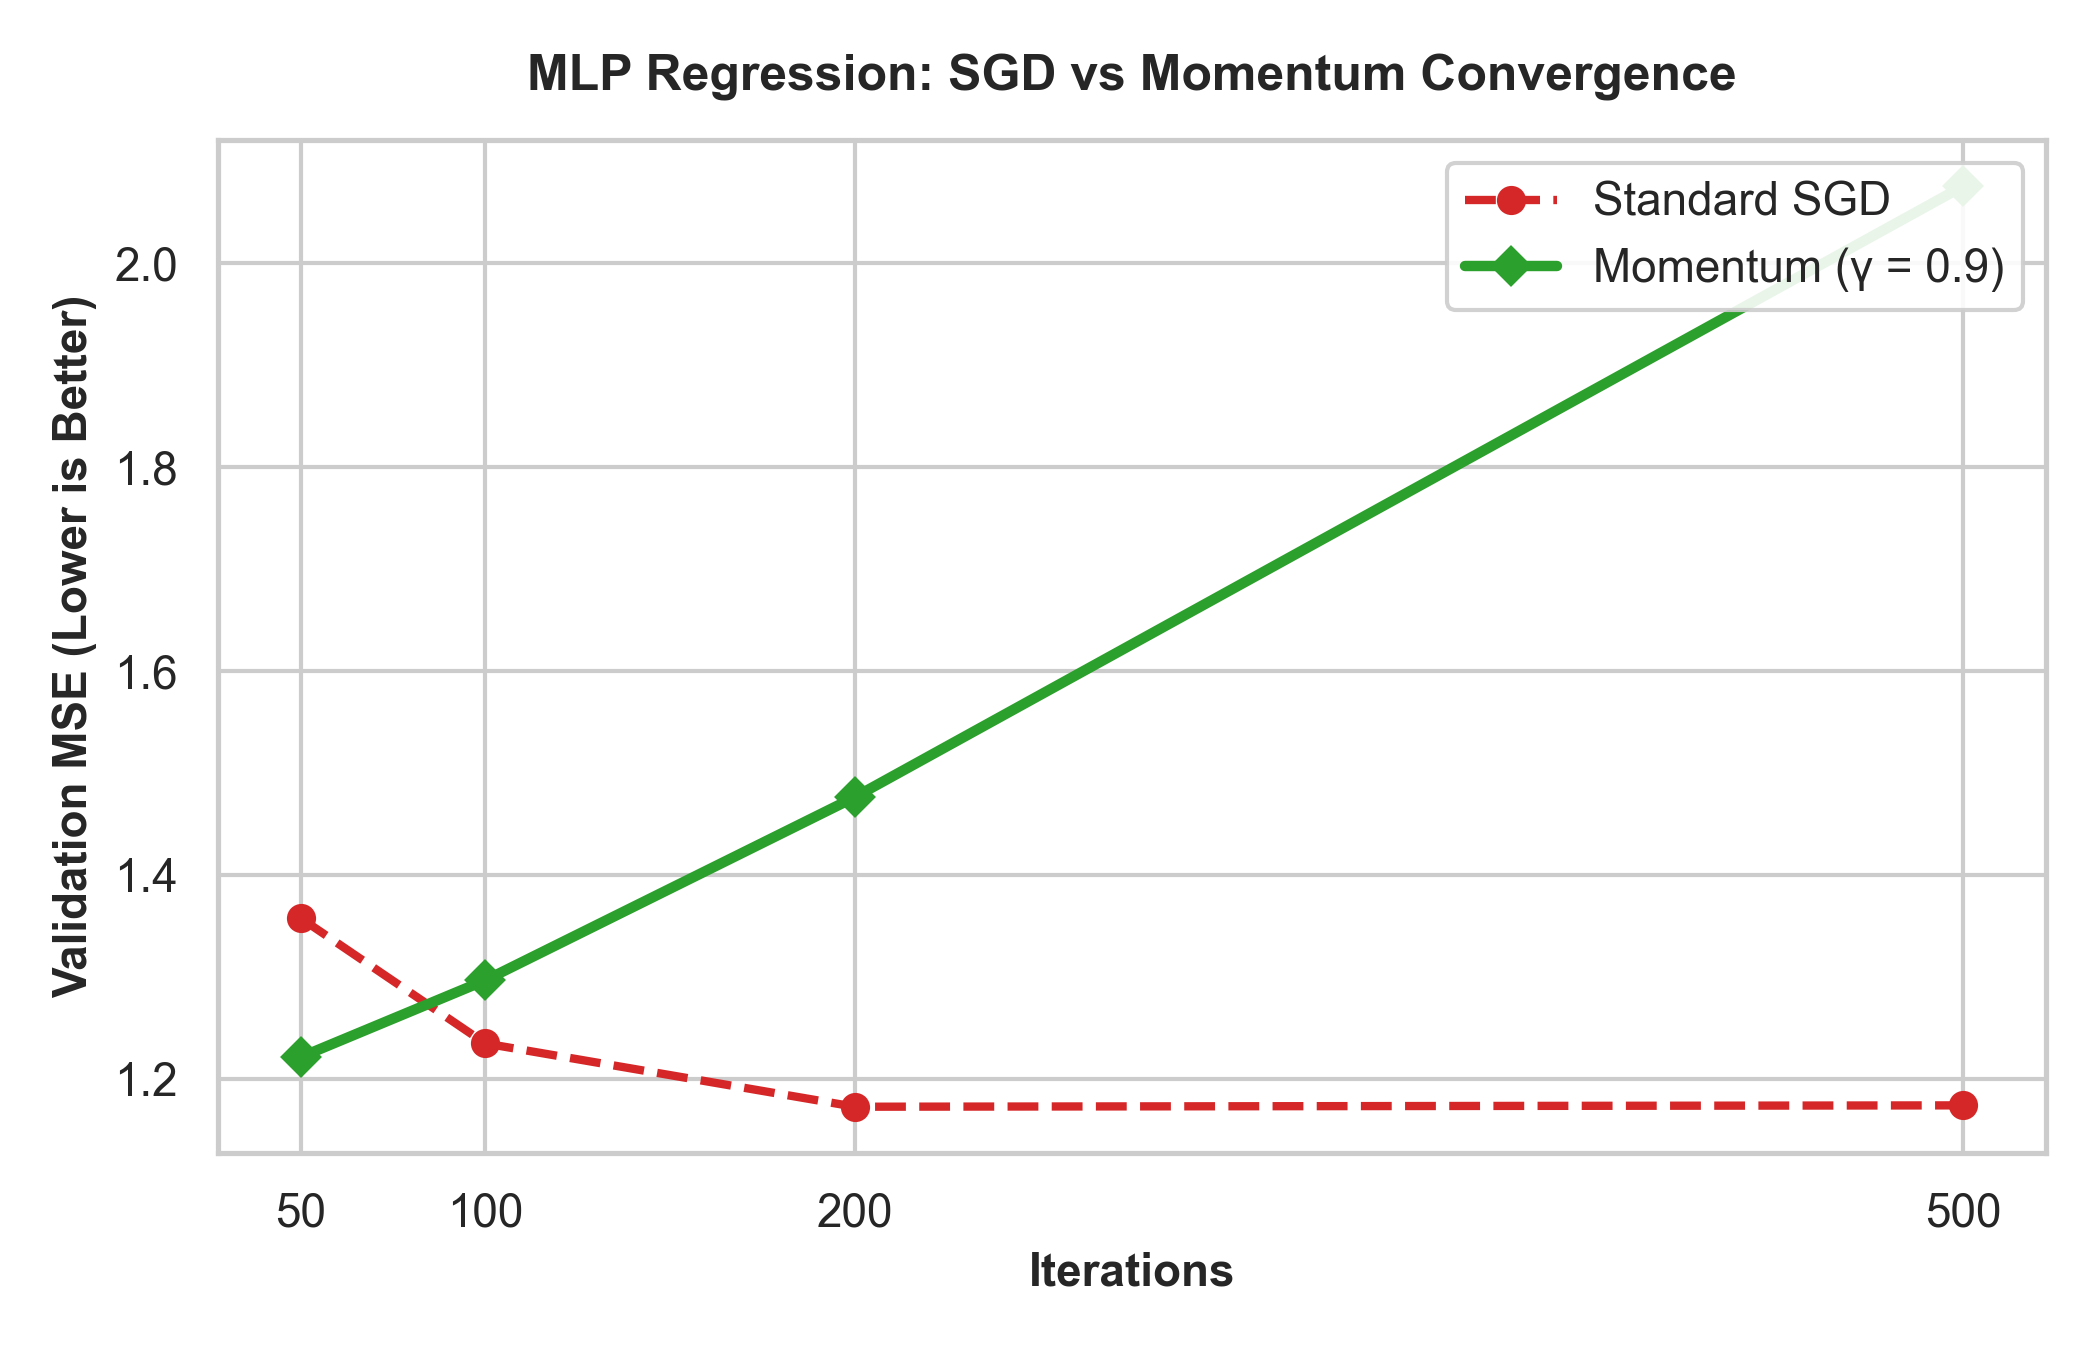
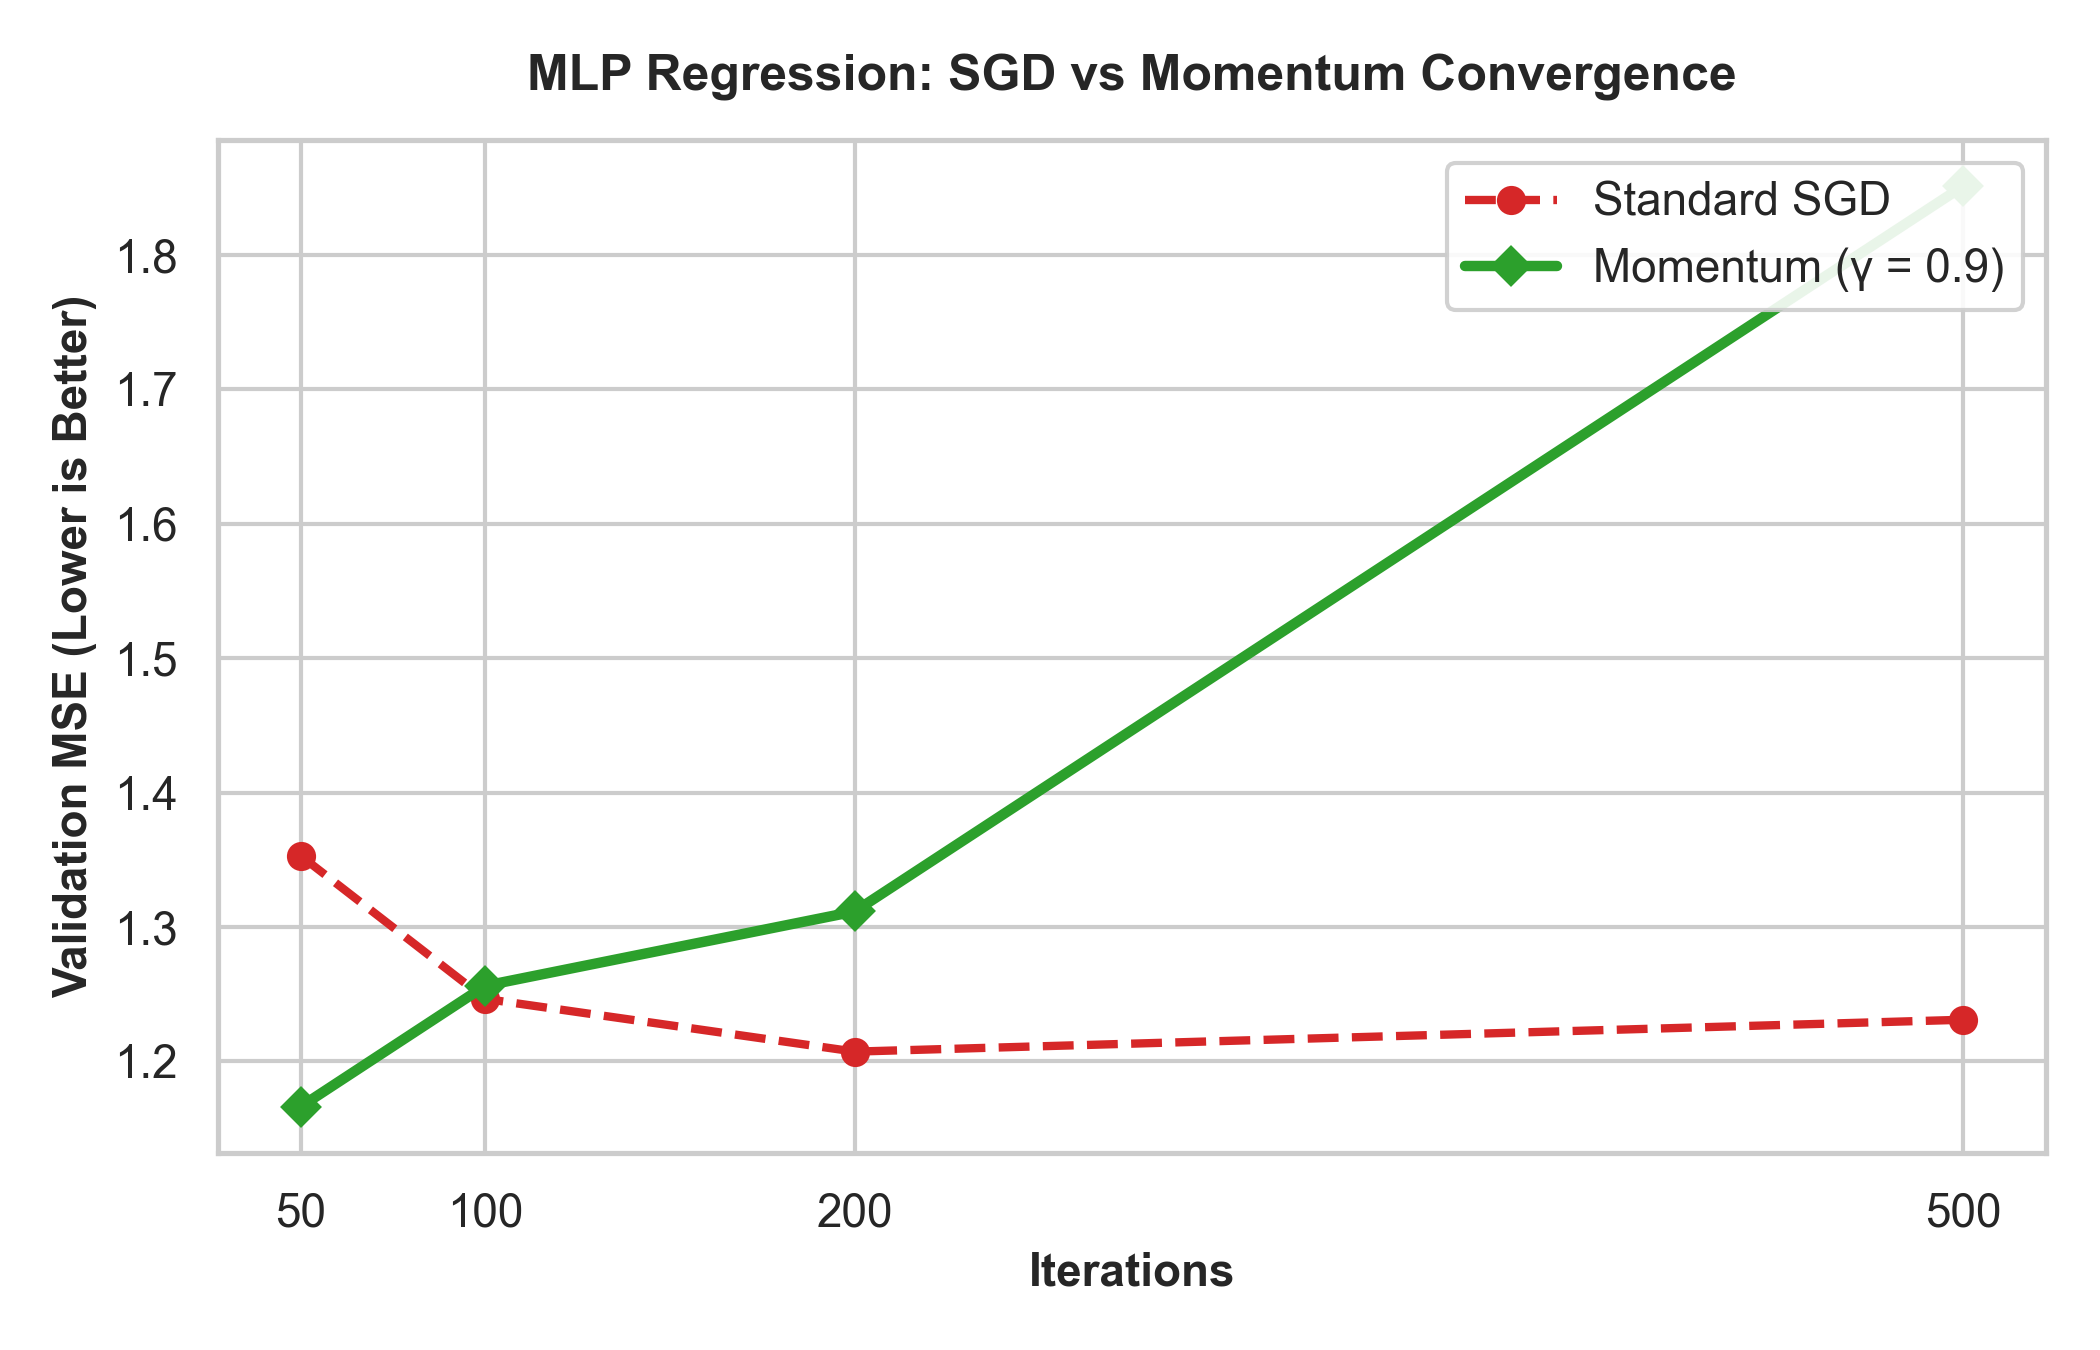
PROJECT FINAL

diff --git a/report.tex b/report.tex
@@ -1,28 +1,58 @@
-\documentclass[11pt, twocolumn]{article}
-\usepackage[margin=0.7in]{geometry}
+\documentclass[10pt, twocolumn]{article}
+\usepackage[margin=0.48in]{geometry}
 \usepackage{graphicx}
 \usepackage{booktabs}
 \usepackage{float}
 \usepackage{amsmath}
 \usepackage[font=small,labelfont=bf]{caption}
 
-\title{\vspace{-12mm}\Large\textbf{Milestone 2 Report}}
+\title{\vspace{-15mm}\Large\textbf{Milestone 2 Report}}
 \author{SCIPER 392412 $\cdot$ 373176 $\cdot$ 398388}
 \date{}
 
 \begin{document}
+
+\setlength{\abovedisplayskip}{2pt}
+\setlength{\belowdisplayskip}{2pt}
+\setlength{\abovedisplayshortskip}{1pt}
+\setlength{\belowdisplayshortskip}{1pt}
 
 \maketitle
 
 \section{Introduction}
 Same as Milestone 1, with the Gaming and Mental Health dataset, we have 2,000 samples total, keeping 1,600 for training and 400 for testing. We want to predict two targets. First, we predict the continuous addiction score (0 to 10). Second, we classify the general addiction level into Low, Medium, or High.
 
-In this milestone, we implement a Multi-Layer Perceptron (MLP) from scratch for both tasks. We also implement K-Means clustering for classification.
+In this milestone, we implement a Multi-Layer Perceptron (MLP) from scratch for both tasks. We also implement K-Means clustering for classification. It was very interesting to compare a neural network against clustering.
 
-\section{Methods}
+\section{Dataset and Preprocessing}
 We prepared the data by applying standard z-score normalisation. We calculated means and standard deviations from the training set only. To avoid data leakage, we split our 1,600 training samples into an 80/20 train/validation split. This leaves 1,280 samples for training and 320 for local tuning.
 
-\subsection{Multi-Layer Perceptron (MLP)}
+While doing this split, we discovered a severe class imbalance in the training labels. Class 0 (Low) has 1,103 samples (68.9\%), Class 1 (Medium) has 446 samples (27.9\%), and Class 2 (High) has only 51 samples (3.2\%). This imbalance makes classification quite challenging.
+
+\begin{figure*}[t!]
+    \centering
+    \begin{minipage}{0.32\textwidth}
+        \centering
+        \includegraphics[width=0.96\linewidth]{kmeans_sweep.png}
+        \caption{K-Means validation metrics vs. K.}
+        \label{fig:kmeans}
+    \end{minipage}\hfill
+    \begin{minipage}{0.32\textwidth}
+        \centering
+        \includegraphics[width=0.96\linewidth]{mlp_class_comparison.png}
+        \caption{MLP Classification: SGD vs Momentum.}
+        \label{fig:mlp_class}
+    \end{minipage}\hfill
+    \begin{minipage}{0.32\textwidth}
+        \centering
+        \includegraphics[width=0.96\linewidth]{mlp_reg_comparison.png}
+        \caption{MLP Regression: SGD vs Momentum.}
+        \label{fig:mlp_reg}
+    \end{minipage}
+    \vspace{-4mm}
+\end{figure*}
+
+\section{Methods}
 Our MLP is built completely from scratch. The network supports arbitrary hidden layers. We initialise weights using a normal distribution scaled by $1 / \sqrt{I}$, where $I$ is the input dimension. Biases start at zero.
 
 The forward pass runs layer-by-layer:
@@ -38,56 +68,34 @@ For training, backpropagation propagates errors backward using the chain rule. W
 
 We implement two loss functions:
 \begin{itemize}
+    \setlength{\itemsep}{0pt}
+    \setlength{\parskip}{0pt}
     \item \textbf{Mean Squared Error (MSE):} Used for regression.
     \item \textbf{Cross-Entropy (CE):} Used for classification. We add a tiny offset ($\epsilon = 10^{-9}$) to prevent numerical blowups in the log.
 \end{itemize}
 
-\subsection{K-Means Clustering}
-K-Means groups features into $K$ clusters. We initialise centroids by grabbing random points from the data. Points are assigned to the nearest centroid using Euclidean distance. Centroids are updated as the mean of their assigned points. Empty clusters are resolved by selecting a random data point as the new centroid.
-
+For K-Means, we group features into $K$ clusters. We initialise centroids by grabbing random points from the data. Points are assigned to the nearest centroid using Euclidean distance. Centroids are updated as the mean of their assigned points. Empty clusters are resolved by selecting a random data point as the new centroid.
 For classification, we assign a label to each centroid by majority vote of the true labels in its cluster. A new test point gets the label of its nearest cluster center.
 
-\section{Experiments and Results}
+\section{Experimental Setup}
+We evaluate classification using Accuracy and Macro F1 score. Accuracy measures the percentage of correct predictions. However, because of the class imbalance, accuracy alone is misleading. Macro F1 calculates the F1 score for each class individually and averages them. This metric is much more sensitive to how well we predict the rare High class. For regression, we evaluate the addiction score predictions using Mean Squared Error (MSE). All models are trained on the 1,280 split training samples and evaluated on the 320 validation samples. All hyperparameter tuning and comparisons were performed on the validation split. The results reported in this milestone therefore correspond to validation performance.
 
-\subsection{K-Means Clustering}
-We swept $K$ from 1 to 20 on the validation set. 
+\section{Hyperparameter Tuning}
+We tuned the models systematically to find the best configurations. For K-Means, we swept $K$ from 1 to 20. For MLP Classification, we tuned standard SGD against our Momentum implementation ($\gamma = 0.9$) at a learning rate of $lr=0.01$ across iterations $\in [50, 500]$. For MLP Regression, we tuned standard SGD against Momentum at a learning rate of $lr=0.001$ across iterations $\in [50, 500]$.
 
-\begin{figure}[H]
-    \centering
-    \includegraphics[width=0.88\linewidth]{kmeans_sweep.png}
-    \caption{K-Means performance vs. cluster size $K$}
-\end{figure}
+\section{Results}
+Our experiments produced the following results (summarised in Table 1 and visualised in Figures 1, 2, and 3):
+\begin{itemize}
+    \setlength{\itemsep}{0pt}
+    \setlength{\parskip}{0pt}
+    \item K-Means classification peaked at $K=5$, reaching 73.12\% accuracy (Macro F1 = 0.4172). However, $K=18$ gave 70.94\% accuracy but a much higher Macro F1 score of 0.5943.
+    \item MLP classification with Momentum reached 75.94\% accuracy at just 100 iterations. Standard SGD required 500 iterations to reach that same level.
+    \item MLP regression with standard SGD converged to an MSE of 1.1732 at 200 iterations. Momentum was faster initially, getting 1.2218 MSE at 50 iterations, but it overshot and diverged at higher iterations, rising to 2.0752 MSE.
+\end{itemize}
 
-The accuracy peaked at $K=5$, reaching 73.12\% with a Macro F1 score of 0.4172. We observed an interesting trade-off. At $K=18$, the accuracy dropped slightly to 70.94\%, but the Macro F1 score rose to 0.5943. More clusters allow the model to represent minority groups instead of letting them get outvoted. This was a useful finding.
-
-\subsection{MLP Classification}
-We tested our MLP classifier (hidden size = 64, learning rate $lr=0.01$) across iterations $\in [50, 500]$ to compare standard SGD against our Momentum implementation ($\gamma = 0.9$).
-
-\begin{figure}[H]
-    \centering
-    \includegraphics[width=0.85\linewidth]{mlp_class_comparison.png}
-    \caption{MLP Classification: SGD vs Momentum Validation Accuracy}
-\end{figure}
-
-Momentum reached a validation accuracy of 75.94\% at just 100 iterations. Standard SGD required a full 500 iterations to reach this same level. Momentum adds inertia to the update step. This accelerates training and dampens oscillations in narrow loss valleys.
-
-\subsection{MLP Regression}
-We tuned the regressor (hidden size = 64, learning rate $lr=0.001$) on the continuous addiction score task.
-
-\begin{figure}[H]
-    \centering
-    \includegraphics[width=0.85\linewidth]{mlp_reg_comparison.png}
-    \caption{MLP Regression: SGD vs Momentum Validation MSE}
-\end{figure}
-
-Tuning made a substantial difference. Standard SGD steadily converged to a validation MSE of 1.1732 at 200 iterations. Momentum was faster at the start, achieving a validation MSE of 1.2218 at 50 iterations, compared to SGD's 1.3580. However, at higher iterations, Momentum overshot the mark and diverged, and validation MSE rose to 2.0752. This illustrates a gradient descent limitation. Too much inertia pushes the parameters past the local minimum.
-
-\subsection{Summary of Results}
-The table below displays the final performance of our optimised Milestone 2 models.
-
-\begin{table}[H]
+\begin{table}[htbp]
 \centering
-\resizebox{0.9\columnwidth}{!}{%
+\resizebox{0.95\columnwidth}{!}{%
 \begin{tabular}{lll}
 \toprule
 Task & Model (Parameters) & Performance \\
@@ -99,25 +107,60 @@ Regression & MLP + SGD (iter=200) & MSE: 1.1732 \\
 \bottomrule
 \end{tabular}%
 }
-\caption{Summary of final results}
+\caption{Summary of final validation results}
+\vspace{-4mm}
 \end{table}
 
 \section{Extensions}
-We tried three extensions to improve our pipeline:
+We implemented three key extensions to improve our model:
+\begin{enumerate}
+    \setlength{\itemsep}{0pt}
+    \setlength{\parskip}{0pt}
+    \item \textbf{Momentum Optimiser (Lecture 9):} We added inertia to parameters using:
+    \begin{equation}
+        \mathbf{v}^{(l)} \leftarrow \gamma \mathbf{v}^{(l)} + \eta \nabla R(\mathbf{W}^{(l)})
+    \end{equation}
+    \begin{equation}
+        \mathbf{W}^{(l)} \leftarrow \mathbf{W}^{(l)} - \mathbf{v}^{(l)}
+    \end{equation}
+    where $\gamma = 0.9$ and $\eta$ is the learning rate. We do the same for the biases. This helped classification speed up by 5x.
+    \item \textbf{Cross-Entropy from Scratch:} We built multi-class cross-entropy and its gradient vectorisation from scratch:
+    \begin{equation}
+        \mathcal{L}_{\text{CE}} = -\frac{1}{N} \sum_{i=1}^N \sum_{c=1}^C y_{i}^{(c)} \ln(\hat{y}_{i}^{(c)} + \epsilon)
+    \end{equation}
+    The gradient w.r.t the predictions is:
+    \begin{equation}
+        \frac{\partial \mathcal{L}_{\text{CE}}}{\partial \hat{y}_{i}^{(c)}} = -\frac{y_{i}^{(c)}}{N(\hat{y}_{i}^{(c)} + \epsilon)}
+    \end{equation}
+    We fully vectorised this in NumPy using an $\epsilon = 10^{-9}$ for stability.
+    \item \textbf{Deep MLP Architectures:} We tested a deep network configuration of $(D, 64, 32, C)$. It overfit the training set.
+\end{enumerate}
+
+\section{Runtime / Complexity Analysis}
+We analysed the computational complexity of both algorithms. K-Means has a training complexity of $O(t \cdot N \cdot K \cdot D)$ where $t$ is iterations, $N$ is samples, $K$ is clusters, and $D$ is features. In practice, K-Means is extremely fast, fitting in 0.005 seconds on our system. MLP training complexity per iteration is $O(N \cdot \sum_{l=1}^L M_{l-1} \cdot M_l)$ where $M_l$ is the hidden dimension of layer $l$. Backpropagation is more expensive but still highly efficient, taking about 0.12 seconds for 100 iterations.
+
+\section{Discussion}
+Our results show some fascinating behaviors:
 \begin{itemize}
-    \item \textbf{Momentum Optimiser (Lecture 9):} We added inertia to parameter updates:
-      \begin{equation}
-          \mathbf{v} \leftarrow \gamma \mathbf{v} + \eta \nabla R(\mathbf{W})
-      \end{equation}
-      \begin{equation}
-          \mathbf{W} \leftarrow \mathbf{W} - \mathbf{v}
-      \end{equation}
-      This dampens oscillations and accelerates classification convergence.
-    \item \textbf{Cross-Entropy Loss from Scratch:} We implemented multi-class cross-entropy and its gradient vectorisation from scratch.
-    \item \textbf{Deep MLP Architectures:} We tested a deep network configuration of $(D, 64, 32, C)$. It did not improve performance and overfit the training set.
+    \setlength{\itemsep}{0pt}
+    \setlength{\parskip}{0pt}
+    \item \textbf{K-Means Class Imbalance Trade-off:} Why did K-Means get a higher Macro F1 at $K=18$ than $K=5$? Since Class 2 represents only 3.2\% of our dataset, a small $K$ creates large clusters where Class 2 is always outvoted during centroid labelling. When we increase $K$ to 18, clusters become smaller and more specialised. Some clusters capture only Class 2 samples, allowing those centroids to get the High label, which boosts our Macro F1 score.
+    \item \textbf{Momentum Optimisation:} In classification, Momentum acted as a massive accelerator. By adding the moving average of gradients, it dampens oscillations in narrow valleys, speeding up training by 5x.
+    \item \textbf{Momentum Overshooting in Regression:} In regression, Momentum worked well at first but diverged at 200+ iterations. This is because the accumulated velocity (inertia) pushed the weights past the narrow local minimum of the quadratic MSE loss. This is a classic limitation from Lecture 9!
 \end{itemize}
 
-\section{Discussion and Conclusion}
-We successfully implemented and tuned all methods. For regression, the MLP achieved a solid 1.1732 MSE. A non-linear mapping is well-suited here. For classification, MLP beat K-Means (75.94\% vs 73.12\%). Supervised models have a clear advantage since they optimise directly for target labels. In conclusion, adding momentum was a helpful addition for speed, but required careful tuning to avoid overshooting.
+\section{Limitations}
+Our work has a few limitations:
+\begin{itemize}
+    \setlength{\itemsep}{0pt}
+    \setlength{\parskip}{0pt}
+    \item \textbf{Grid Resolution:} Our hyperparameter sweeps used a coarse grid (only testing 50, 100, 200, 500 iterations). A finer search might find better parameters.
+    \item \textbf{Data Split Sensitivity:} We used a single 80/20 split. Our results might change slightly depending on the random seed of the split.
+    \item \textbf{No Cross-Validation:} Due to the class imbalance, K-Fold cross-validation would be much more robust to ensure minority classes are represented in every fold.
+    \item \textbf{Momentum Divergence:} Our momentum implementation lacks a learning rate decay schedule, making it prone to overshooting in regression tasks.
+\end{itemize}
+
+\section{Conclusion}
+We successfully implemented K-Means and a multi-layer MLP from scratch. The supervised MLP classifier outperformed the unsupervised K-Means model (75.94\% vs 73.12\%) because it optimises directly for class boundaries. Adding momentum dramatically speeded up convergence in classification but proved unstable in regression due to overshooting. Overall, parametric neural nets are highly effective, but require careful tuning.
 
 \end{document}